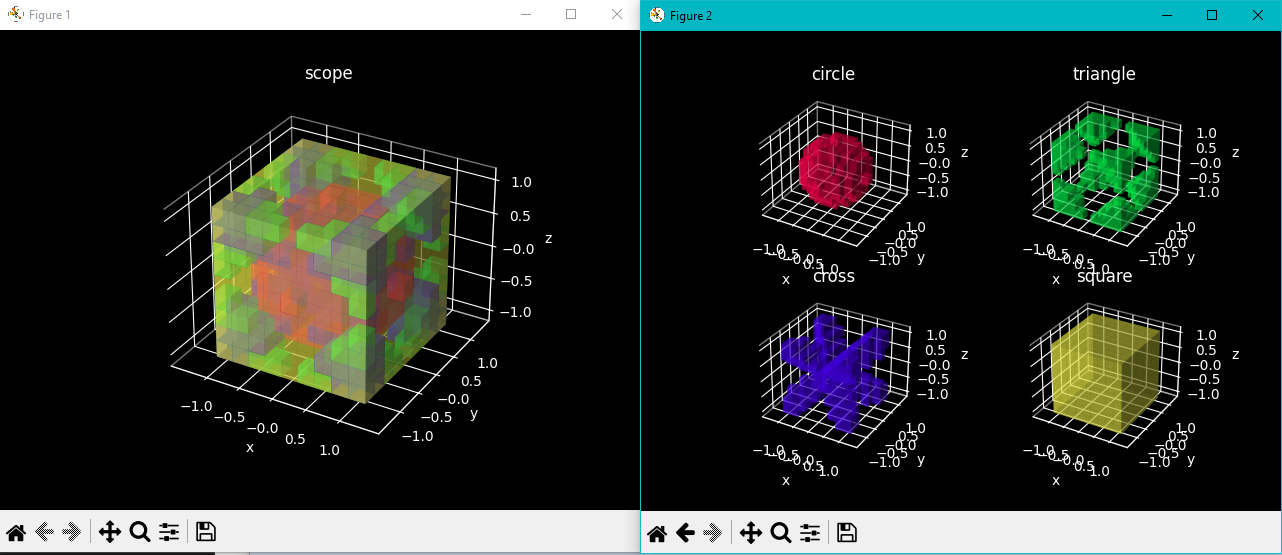
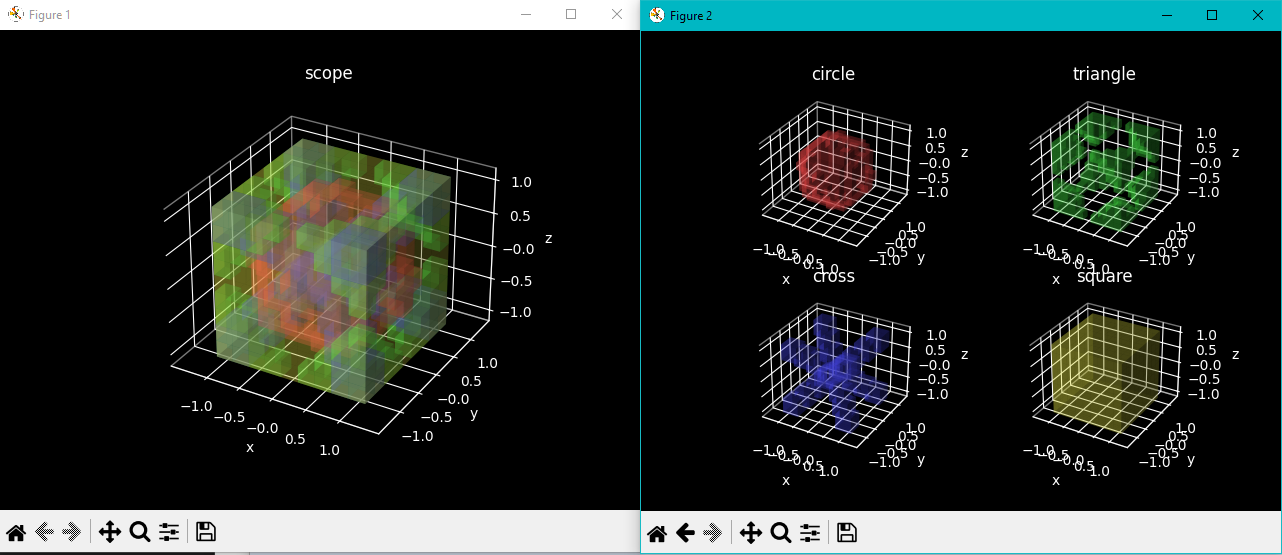
Linearised Approximations

diff --git a/linear/mpl3d_shapes.py b/linear/mpl3d_shapes.py
@@ -8,25 +8,25 @@ def main():
     mpl.style.use("dark_background")
     
     data = []
-
+    
     data.append(record())
     data[-1].label = "circle"
-    data[-1].aura = [1.0, 0.0, 0.3, 0.5]
+    data[-1].aura = [1.0, 0.3, 0.3, 0.25]
     data[-1].formula = shapes().circle().check()
     
     data.append(record())
     data[-1].label = "triangle"
-    data[-1].aura = [0.0, 1.0, 0.3, 0.5]
+    data[-1].aura = [0.3, 1.0, 0.3, 0.25]
     data[-1].formula = shapes().triangle().check()
-
+    
     data.append(record())
     data[-1].label = "cross"
-    data[-1].aura = [0.3, 0.0, 1.0, 0.5]
+    data[-1].aura = [0.3, 0.3, 1.0, 0.25]
     data[-1].formula = shapes().cross().check()
-
+    
     data.append(record())
     data[-1].label = "square"
-    data[-1].aura = [1.0, 1.0, 0.3, 0.5]
+    data[-1].aura = [1.0, 1.0, 0.3, 0.25]
     data[-1].formula = shapes().square().check()
     
     scope(data)
@@ -111,20 +111,20 @@ class shapes:
         return self
 
     def circle(self, *args, **kwargs):
-        def equation(x, y, z, r = 1.0, *args, **kwargs):
+        def equation(x, y, z, r = 1.05, *args, **kwargs):
             return pow(-x, 2.0) + pow(-y, 2.0) + pow(-z, 2.0) <= pow(-r, 2.0)
         self.quadrant(equation, *args, **kwargs)
         return self
 
     def triangle(self, *args, **kwargs):
-        def equation(x, y, z, u = 0.0, *args, **kwargs):
-            return (((x + y) - 1) > u) and (((y + z) - 1) > u) and (((z + x) - 1) > u)
+        def equation(x, y, z, u = 0.00, *args, **kwargs):
+            return (((x + y) - 1.0) > u) and (((y + z) - 1.0) > u) and (((z + x) - 1.0) > u)
         self.quadrant(equation, *args, **kwargs)
         return self
 
     def cross(self, *args, **kwargs):
         def equation(x, y, z, t = 0.25, *args, **kwargs):
-            return ((x - y) <= t) and ((y - z) <= t) and ((z - x) <= t)
+            return (abs(x - y) <= t) and (abs(y - z) <= t) and (abs(z - x) <= t)
         self.quadrant(equation, *args, **kwargs)
         return self
 
